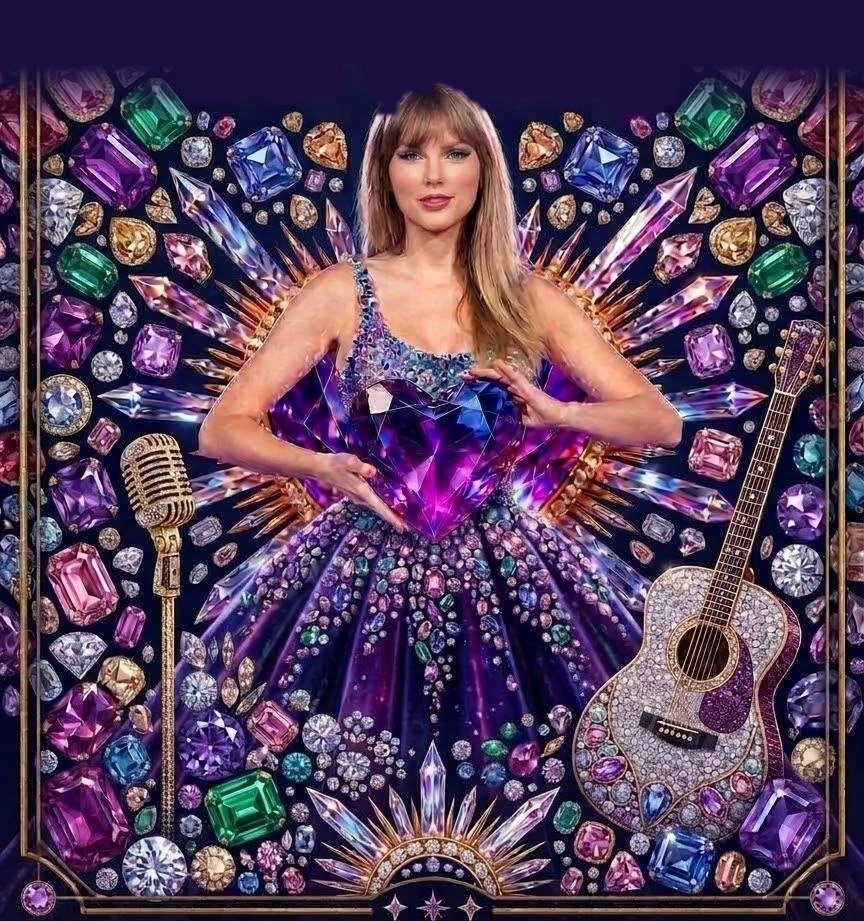
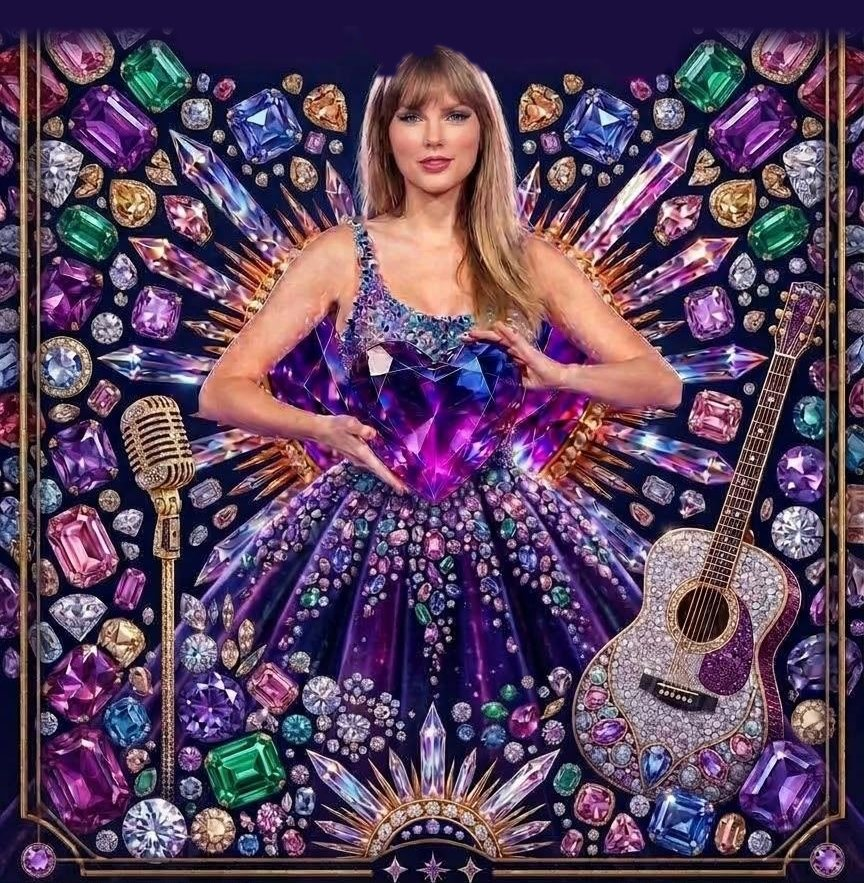
Trim the empty space above the poster

diff --git a/index.html b/index.html
@@ -64,9 +64,9 @@
   .burst .bgem{position:absolute;left:0;top:0;}
   /* poster-top.jpg = your uploaded photo (photo_2026-10-11_16-58-24.jpg) with the title lettering painted out and cropped just above her hair.
      margin-top = ~1 inch of breathing room above her head. */
-  .poster-top{position:relative;z-index:1;height:0;padding-top:106.6%;margin-top:clamp(12px,3vw,28px);}
+  .poster-top{position:relative;z-index:1;height:0;padding-top:102.2%;margin-top:clamp(2px,.6vw,8px);}
   .poster-top::before{content:'';position:absolute;top:0;left:0;right:0;bottom:0;background:url('poster-top.jpg') center/100% 100% no-repeat;border-radius:20px;
-    -webkit-mask-image:linear-gradient(transparent 0,#000 4.5%);mask-image:linear-gradient(transparent 0,#000 4.5%);}
+    -webkit-mask-image:linear-gradient(transparent 0,#000 2.6%);mask-image:linear-gradient(transparent 0,#000 2.6%);}
   .poster-text{position:relative;z-index:2;text-align:center;margin-top:6px;}
   .poster-text .invite-label{margin-top:0;}
   .sr-only{position:absolute;width:1px;height:1px;overflow:hidden;clip:rect(0 0 0 0);white-space:nowrap;}
